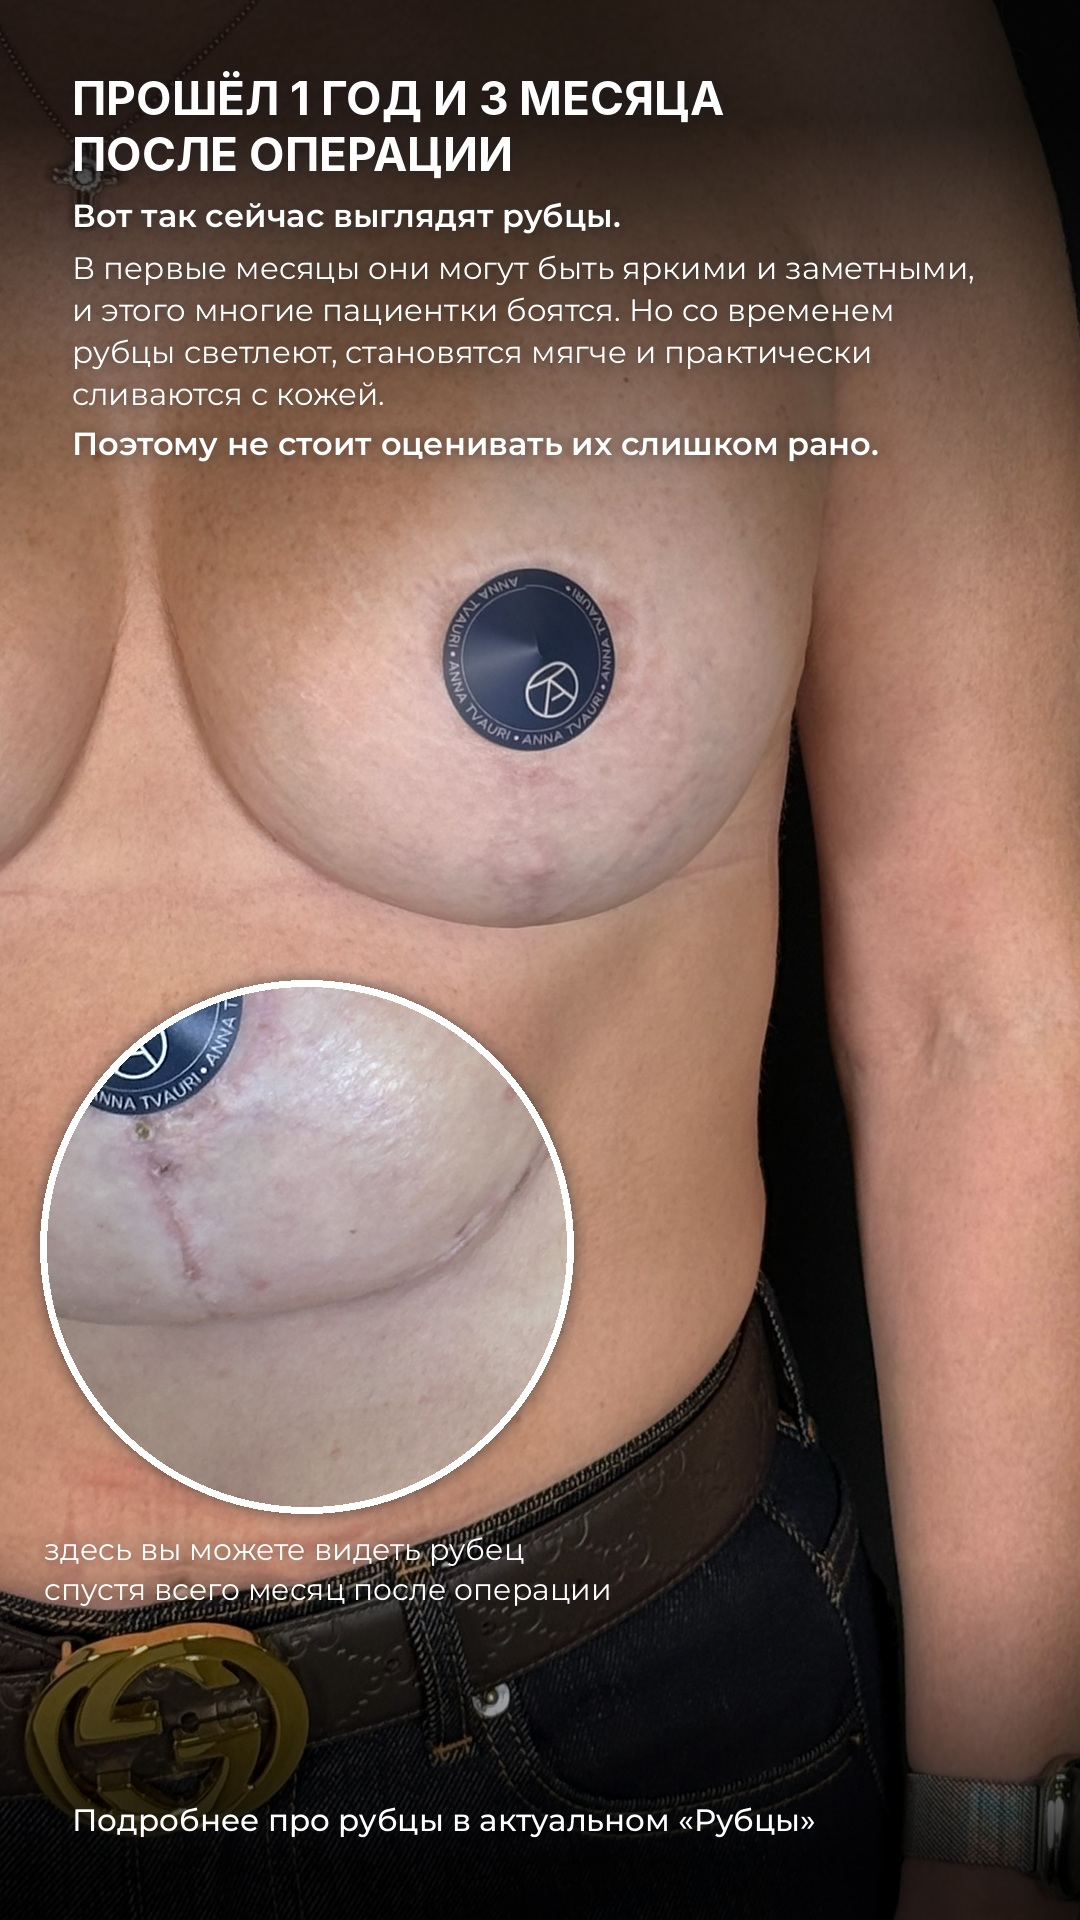
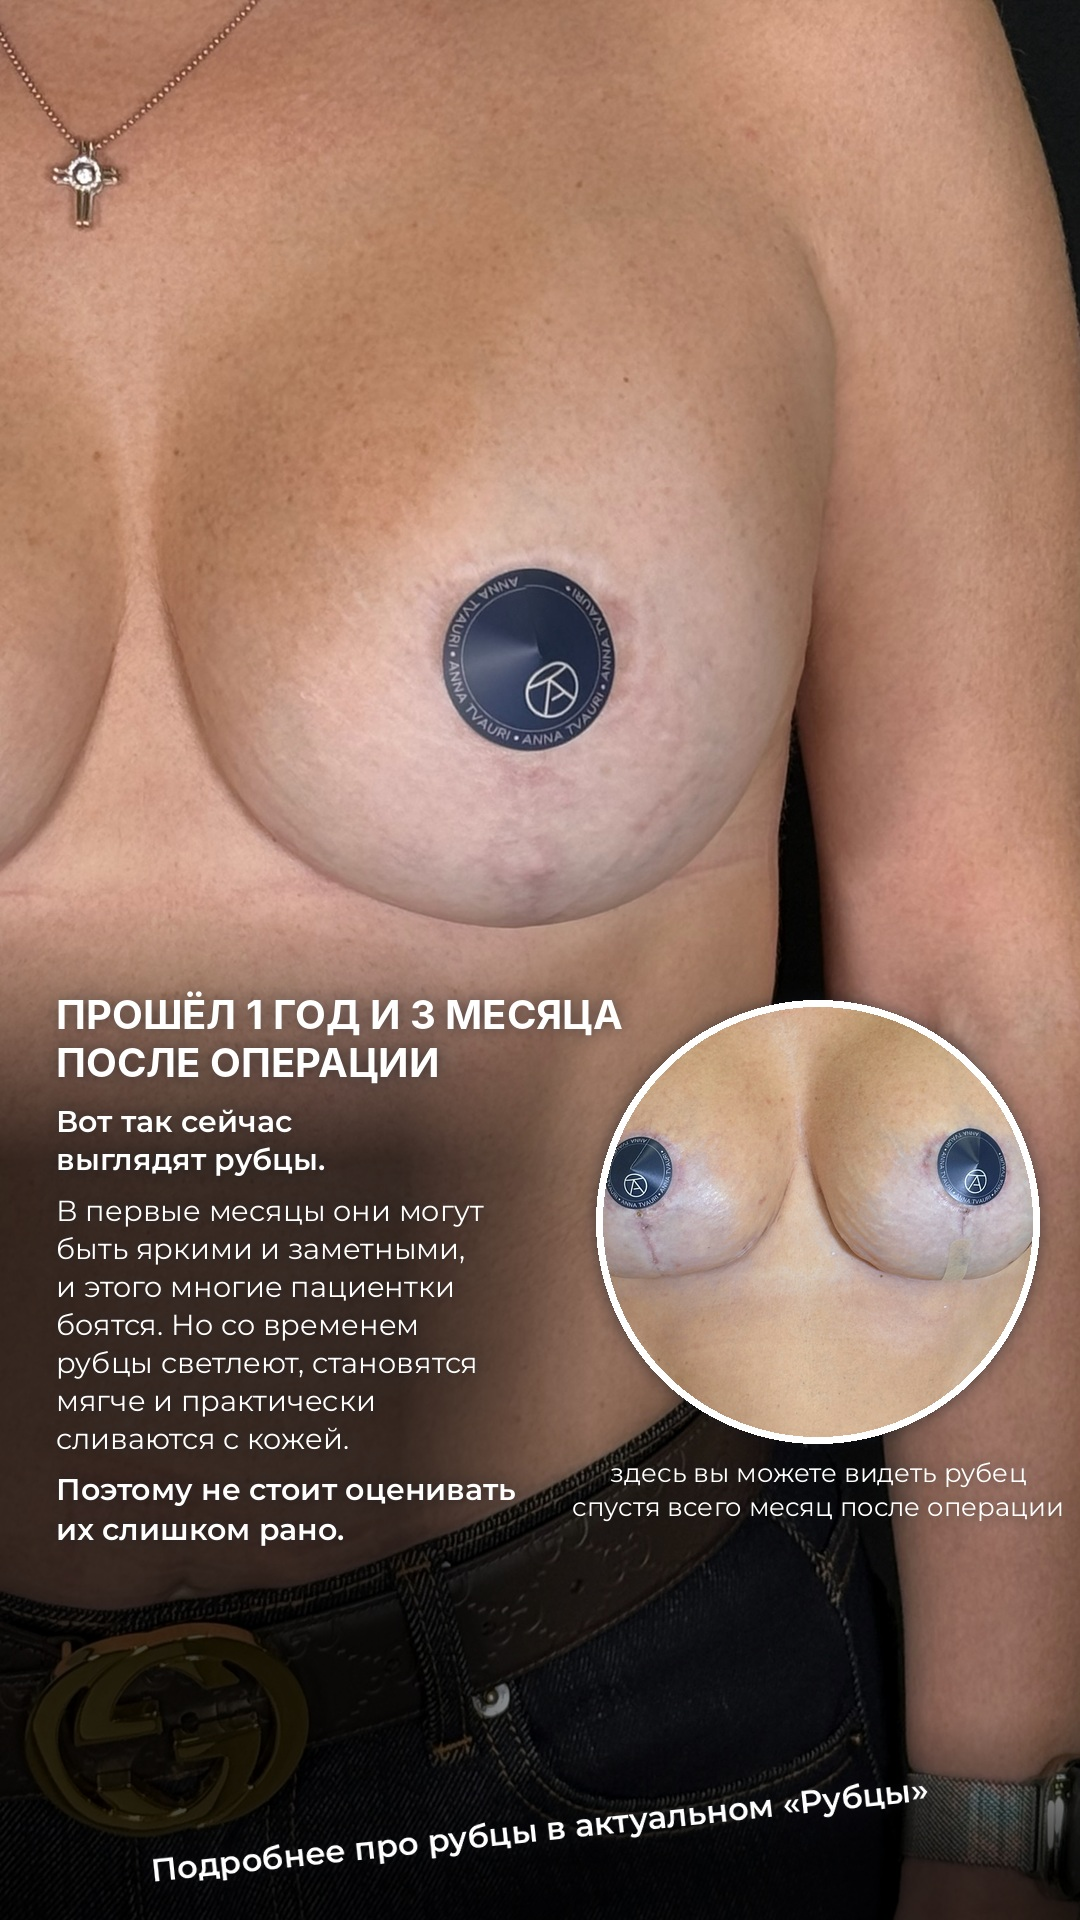
Scars story 2: source-scale photo, warm circle on the right, text on the left, tilted note
Claude-Session: https://claude.ai/code/session_01DoBoRz2HUe4yvMBz6dWv4L

diff --git a/tools/stories_scars_1y3m.py b/tools/stories_scars_1y3m.py
@@ -153,35 +153,46 @@ def s1():
     os.remove(tmp); print("wrote", out, f"{total:.1f}s", flush=True)
 
 
+def warm(img, da=4.0, db=10.0, dl=3.0):
+    """a little warmth on the skin (a/b towards peach on warm pixels only)"""
+    lab = cv2.cvtColor(np.asarray(img), cv2.COLOR_RGB2LAB).astype(np.float32)
+    m = cv2.GaussianBlur(np.clip((lab[..., 2] - 128) / 8, 0, 1) * np.clip((lab[..., 0] - 50) / 40, 0, 1), (0, 0), 2)
+    lab[..., 0] += dl * m; lab[..., 1] += da * m; lab[..., 2] += db * m
+    return Image.fromarray(cv2.cvtColor(lab.clip(0, 255).astype(np.uint8), cv2.COLOR_LAB2RGB))
+
+
 def s2():
-    """the scars now (IMG_2065, full screen): the text on top under a soft top fade, the scar after one month in a big
-    circle low on the left with its caption, «Подробнее…» at the bottom"""
+    """the scars now (IMG_2065 as shot: the whole photo, 1536x2730 = 9:16, only scaled to 1080x1920); the text low on
+    the left, the circle with the scar after one month (whole chest as shot, warmed up) low on the right with its
+    caption; «Подробнее…» tilted at the bottom"""
     bg = np.asarray(Image.open(os.path.join(DRIVE, "IMG_2065.JPG.png")).convert("RGB").resize((W, H), Image.LANCZOS), np.float32) / 255
-    ys = np.arange(H, dtype=np.float32)[:, None, None]
-    shade = 0.78 * np.clip((640 - ys) / 520, 0, 1) ** 1.2 + 0.8 * np.clip((ys - 1560) / 300, 0, 1)
+    ys = np.arange(H, dtype=np.float32)[:, None, None]; xs = np.arange(W, dtype=np.float32)[None, :, None]
+    shade = 0.72 * np.clip((ys - 900) / 260, 0, 1) * np.clip((700 - xs) / 300, 0.35, 1)      # dark under the text (lower left)
+    shade = np.maximum(shade, 0.75 * np.clip((ys - 1640) / 220, 0, 1))
     fr = bg * (1 - shade)
-    hb = ImageFont.truetype(BOLD, 46); lay = Image.new("RGBA", (W, H), (0, 0, 0, 0)); d = ImageDraw.Draw(lay)
-    f = mont(31, 400); fb = mont(32, 600); y = 70
-    d.text((MARGIN, y), "ПРОШЁЛ 1 ГОД И 3 МЕСЯЦА", font=hb, fill=WHITE); y += 56
-    d.text((MARGIN, y), "ПОСЛЕ ОПЕРАЦИИ", font=hb, fill=WHITE); y += 70
-    d.text((MARGIN, y), "Вот так сейчас выглядят рубцы.", font=fb, fill=WHITE); y += 52
-    for ln in ["В первые месяцы они могут быть яркими и заметными,", "и этого многие пациентки боятся. Но со временем",
-               "рубцы светлеют, становятся мягче и практически", "сливаются с кожей.", ]:
-        d.text((MARGIN, y), ln, font=f, fill=WHITE); y += 42
-    y += 8; d.text((MARGIN, y), "Поэтому не стоит оценивать их слишком рано.", font=fb, fill=WHITE)
-    # the circle: the scar one month after (IMG scar_1m), big enough to see it
-    D = 520; R = D // 2 + 7; cx, cy = 40, 980
-    ph = Image.open(os.path.join(DRIVE, "scar_1m.bin.png")).convert("RGB").crop((815, 1340, 1375, 1900)).resize((D, D), Image.LANCZOS)
+    lay = Image.new("RGBA", (W, H), (0, 0, 0, 0)); d = ImageDraw.Draw(lay)
+    hb = ImageFont.truetype(BOLD, 40); f = mont(29, 400); fb = mont(30, 600); y = 990; x = 56
+    for t in ["ПРОШЁЛ 1 ГОД И 3 МЕСЯЦА", "ПОСЛЕ ОПЕРАЦИИ"]: d.text((x, y), t, font=hb, fill=WHITE); y += 48
+    y += 16; d.text((x, y), "Вот так сейчас", font=fb, fill=WHITE); y += 38; d.text((x, y), "выглядят рубцы.", font=fb, fill=WHITE); y += 52
+    for ln in ["В первые месяцы они могут", "быть яркими и заметными,", "и этого многие пациентки", "боятся. Но со временем",
+               "рубцы светлеют, становятся", "мягче и практически", "сливаются с кожей."]:
+        d.text((x, y), ln, font=f, fill=WHITE); y += 38
+    y += 12
+    for ln in ["Поэтому не стоит оценивать", "их слишком рано."]: d.text((x, y), ln, font=fb, fill=WHITE); y += 40
+    # the circle on the right: the chest one month after, as shot (both breasts, the scars visible), warmed up
+    D = 430; cx, cy = W - 40 - (D + 14), 1000
+    ph = warm(Image.open(os.path.join(DRIVE, "scar_1m.bin.png")).convert("RGB")).crop((800, 820, 2200, 2220)).resize((D, D), Image.LANCZOS)
     circ = Image.new("RGBA", (D + 14, D + 14), (0, 0, 0, 0)); ImageDraw.Draw(circ).ellipse((0, 0, D + 13, D + 13), fill=WHITE + (255,))
     m = Image.new("L", (D, D), 0); ImageDraw.Draw(m).ellipse((0, 0, D - 1, D - 1), fill=255); ph = ph.convert("RGBA"); ph.putalpha(m)
     circ.alpha_composite(ph, (7, 7)); lay.alpha_composite(circ, (cx, cy))
-    fc = mont(30, 400); yc = cy + D + 30
+    fc = mont(26, 400); yc = cy + D + 26
     for ln in ["здесь вы можете видеть рубец", "спустя всего месяц после операции"]:
-        d.text((cx + 4, yc), ln, font=fc, fill=WHITE); yc += 40
-    d.text((MARGIN, H - 120), "Подробнее про рубцы в актуальном «Рубцы»", font=mont(31, 500), fill=WHITE)
-    sh = Image.new("RGBA", (W, H), GRAPHITE + (0,)); a = lay.getchannel("A")
-    txt_only = Image.new("L", (W, H), 0); txt_only.paste(a)
-    sh.putalpha(txt_only.point(lambda v: v * 150 // 255))
+        d.text((cx + (D + 14) / 2, yc), ln, font=fc, fill=WHITE, anchor="ma"); yc += 34
+    # «Подробнее…» tilted a little, like a handwritten note
+    note = Image.new("RGBA", (900, 120), (0, 0, 0, 0)); dn = ImageDraw.Draw(note)
+    dn.text((450, 60), "Подробнее про рубцы в актуальном «Рубцы»", font=mont(32, 600), fill=WHITE + (255,), anchor="mm")
+    note = note.rotate(6, resample=Image.BICUBIC, expand=True); lay.alpha_composite(note, ((W - note.width) // 2, H - 90 - note.height // 2))
+    sh = Image.new("RGBA", (W, H), GRAPHITE + (0,)); sh.putalpha(lay.getchannel("A").point(lambda v: v * 150 // 255))
     lay2 = Image.alpha_composite(sh.filter(ImageFilter.GaussianBlur(8)), lay)
     fr = over(fr, np.asarray(lay2, np.float32) / 255)
     out = os.path.join(OUT, "02_rubcy.jpg"); Image.fromarray((np.clip(fr, 0, 1) * 255).astype(np.uint8)).save(out, quality=94); print("wrote", out)

diff --git a/stories_scars_1y3m/README.md b/stories_scars_1y3m/README.md
@@ -7,5 +7,6 @@
    масштабе; снова ДО, по очереди тонкие белые стрелки: «снижение наполненности верхнего полюса», «опущение груди»;
    ползунок → ПОСЛЕ: «увеличение груди имплантами + подтяжка», стрелки «наполненный верхний полюс», «грудь стала выше»,
    «собранная форма»; затем коллажи «1 год 3 месяца» (как у клиента) с плашкой «спустя 1 год 3 месяца после операции».
-2. `02_rubcy.jpg`: рубцы через 1 год 3 месяца (IMG_2065) с текстом; крупный кружок с рубцом через месяц и подписью
-   «здесь вы можете видеть рубец спустя всего месяц после операции»; внизу «Подробнее про рубцы в актуальном «Рубцы»».
+2. `02_rubcy.jpg`: рубцы через 1 год 3 месяца (IMG_2065 целиком, в масштабе исходника); текст слева внизу;
+   справа кружок с рубцами через месяц (фото утеплено) и подписью «здесь вы можете видеть рубец спустя всего месяц
+   после операции»; внизу с наклоном «Подробнее про рубцы в актуальном «Рубцы»».
